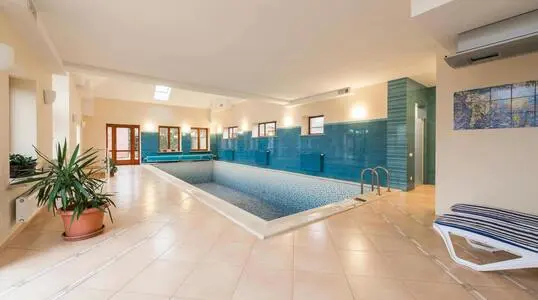
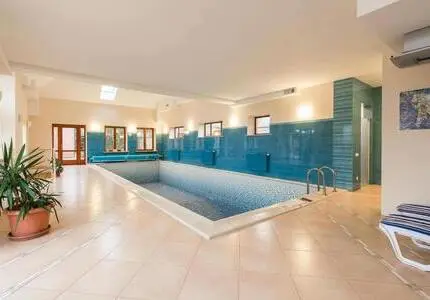
new life mob images

diff --git a/src/html/main/life/index.htm b/src/html/main/life/index.htm
@@ -20,7 +20,7 @@
 								srcset="/src/assets/images/life/1_tm.webp 1x, /src/assets/images/life/1_tm_2x.webp 2x">
 							<source media="(max-width: 719px)"
 								srcset="/src/assets/images/life/1_mob.webp 1x, /src/assets/images/life/1_mob_2x.webp 2x">
-							<img alt="life" width="538" height="300" src="/src/assets/images/life/1.webp" loading="lazy"
+							<img alt="life" width="430" height="300" src="/src/assets/images/life/1.webp" loading="lazy"
 								class="fit-cover">
 						</picture>
 					</div>
@@ -36,7 +36,7 @@
 								srcset="/src/assets/images/life/2_tm.webp 1x, /src/assets/images/life/2_tm_2x.webp 2x">
 							<source media="(max-width: 719px)"
 								srcset="/src/assets/images/life/2_mob.webp 1x, /src/assets/images/life/2_mob_2x.webp 2x">
-							<img alt="life" width="538" height="300" src="/src/assets/images/life/2.webp" loading="lazy"
+							<img alt="life" width="430" height="300" src="/src/assets/images/life/2.webp" loading="lazy"
 								class="fit-cover">
 						</picture>
 					</div>
@@ -52,7 +52,7 @@
 								srcset="/src/assets/images/life/3_tm.webp 1x, /src/assets/images/life/3_tm_2x.webp 2x">
 							<source media="(max-width: 719px)"
 								srcset="/src/assets/images/life/3_mob.webp 1x, /src/assets/images/life/3_mob_2x.webp 2x">
-							<img alt="life" width="538" height="300" src="/src/assets/images/life/3.webp" loading="lazy"
+							<img alt="life" width="430" height="300" src="/src/assets/images/life/3.webp" loading="lazy"
 								class="fit-cover">
 						</picture>
 					</div>
